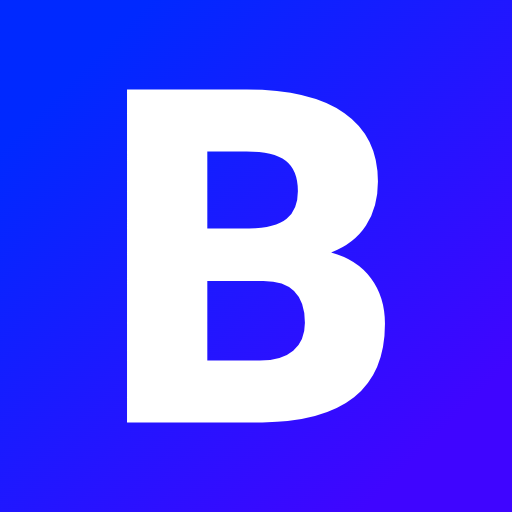
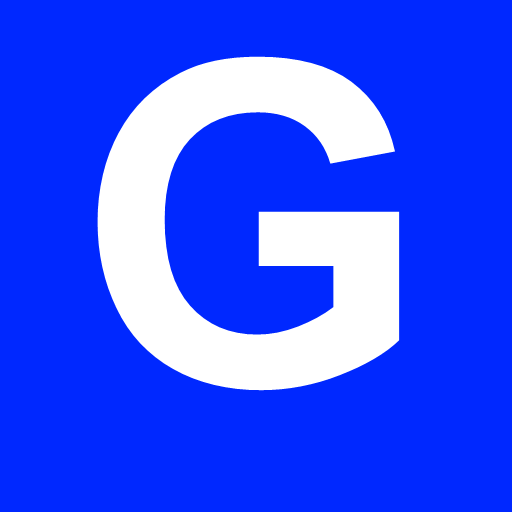
Rebrand app as Geek Hub

diff --git a/components/Header.tsx b/components/Header.tsx
@@ -35,10 +35,10 @@ export default function Header() {
         {/* Lado Esquerdo: Logo */}
         <Link href="/" className="flex items-center gap-2 group">
           <div className="h-9 w-9 rounded-xl bg-gradient-to-br from-amber-500 to-amber-600 flex items-center justify-center font-bold text-white transition-all duration-300 group-hover:scale-110 group-hover:shadow-lg group-hover:shadow-amber-500/30 animate-glow">
-            B
+            G
           </div>
           <span className="text-xl font-bold tracking-tight text-white">
-            Bruno
+            Geek{" "}
             <span className="text-gradient animate-shimmer bg-clip-text text-transparent">
               Hub
             </span>

diff --git a/app/cadastro/page.tsx b/app/cadastro/page.tsx
@@ -73,10 +73,10 @@ export default function CadastroPage() {
         {/* Logo */}
         <div className="text-center mb-8">
           <div className="inline-flex h-14 w-14 rounded-2xl bg-gradient-to-br from-amber-500 to-amber-600 items-center justify-center font-bold text-white text-2xl mb-4">
-            B
+            G
           </div>
           <h1 className="text-3xl font-bold text-white">Criar conta</h1>
-          <p className="text-zinc-500 mt-2">Cadastre-se para acessar o Hub</p>
+          <p className="text-zinc-500 mt-2">Cadastre-se para acessar o Geek Hub</p>
         </div>
 
         {/* Formulário */}

diff --git a/app/login/page.tsx b/app/login/page.tsx
@@ -51,10 +51,10 @@ export default function LoginPage() {
         {/* Logo */}
         <div className="text-center mb-8">
           <div className="inline-flex h-14 w-14 rounded-2xl bg-gradient-to-br from-amber-500 to-amber-600 items-center justify-center font-bold text-white text-2xl mb-4">
-            B
+            G
           </div>
           <h1 className="text-3xl font-bold text-white">Entrar</h1>
-          <p className="text-zinc-500 mt-2">Acesse sua conta no Hub</p>
+          <p className="text-zinc-500 mt-2">Acesse sua conta no Geek Hub</p>
         </div>
 
         {/* Formulário */}

diff --git a/app/page.tsx b/app/page.tsx
@@ -21,7 +21,7 @@ export default function Home() {
       <Header />
       <div className="p-8 mb-15 max-w-6xl mx-auto">
         <h1 className="text-4xl font-bold mb-12 text-gradient animate-fadeIn">
-          Bem-vindo ao Hub
+          Bem-vindo ao Geek Hub
         </h1>
 
         <div className="grid grid-cols-1 md:grid-cols-3 gap-6">

diff --git a/app/layout.tsx b/app/layout.tsx
@@ -14,7 +14,7 @@ const geistMono = Geist_Mono({
 });
 
 export const metadata: Metadata = {
-  title: "BrunoHub",
+  title: "Geek Hub",
   description: "Minha biblioteca pessoal de livros, filmes e séries",
   manifest: "/manifest.json",
   themeColor: "#09090b",
